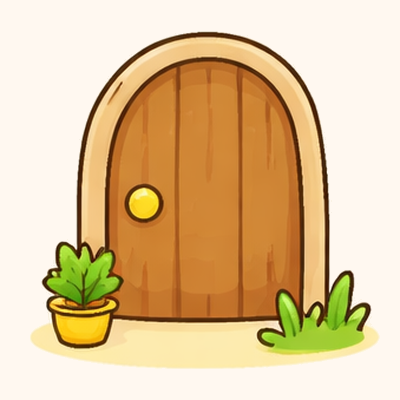
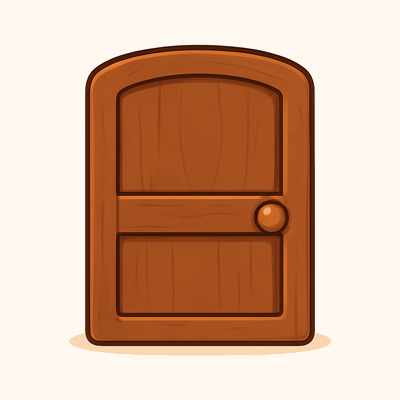
Merge pull request #24 from jvspl/claude/regen-deur

Pull request: Regenerate deur so it reads as a door (#16)
Closes #16.

The old `deur` didn't pass the across-the-table squint test (acceptance criterion #3): it was an arched doorway set in a wall, with a potted plant and a tuft of grass — scene props to point at instead of the door, breaking the one-subject rule. It was a March DALL-E incumbent with no recorded prompt, so there was nothing to tweak — it needed a fresh generation.

## What I did
- Generated a new `deur` via the SOURCES.md recipe: `gpt-image-1-mini`, quality medium, 1024², master prompt with subject *"a simple door"* (a single standalone wooden door with a round knob), refs `zebra`/`beer`/`appel`.
- Checked it against the acceptance criteria: single subject, no scene, recognizable silhouette, house-style match (thick dark-brown outline, warm cel shading, gloss highlight, cream background).
- Intaken at 400×400 with `lettercards photo … --pictogram` (background flood-fills cleanly to `#FFF8F0`).
- Backfilled its provenance row with the real prompt.

## Notes
- Content/image swap → normally straight to `main`; PR here since the working branch can't push to `main` directly.
- Rendered card and raw generation shown in the session. `check starter` stays valid; all 13 tests pass.

🤖 Generated with [Claude Code](https://claude.com/claude-code)

https://claude.ai/code/session_01AMjjUee7SVCZK7qj44ecru

---
_Generated by [Claude Code](https://claude.ai/code/session_01AMjjUee7SVCZK7qj44ecru)_

diff --git a/lettercards/starter/images/SOURCES.md b/lettercards/starter/images/SOURCES.md
@@ -107,7 +107,7 @@ Proven July 2026 (the 16-image batch below, ~$0.40 total):
 | ![banaan](banaan.png) | banaan | ChatGPT/DALL-E | 2026-03-19 | Create a 3x1 grid of cute, simple, child-friendly illustration style similar to Dutch children's books like Nijntje (Miffy) or Dikkie Dik. Soft rounded shapes, warm colors, gentle outlines, cream/beige background. The style should be appealing to toddlers (age 2). The 3 items to draw (left to right, top to bottom): banaan, beer, bal. Each item should be in its own cell with a cream/beige background. Keep items centered and recognizable for a toddler. |
 | ![beer](beer.png) | beer | ChatGPT/DALL-E | 2026-03-19 | Create a 3x1 grid of cute, simple, child-friendly illustration style similar to Dutch children's books like Nijntje (Miffy) or Dikkie Dik. Soft rounded shapes, warm colors, gentle outlines, cream/beige background. The style should be appealing to toddlers (age 2). The 3 items to draw (left to right, top to bottom): banaan, beer, bal. Each item should be in its own cell with a cream/beige background. Keep items centered and recognizable for a toddler. |
 | ![boom](boom.png) | boom | gpt-image-1-mini | 2026-07-05 | master prompt, subject: "a leafy green tree" (refs: zebra, beer, appel) |
-| ![deur](deur.png) | deur | ChatGPT/DALL-E | 2026-03-19 | _prompt lost — regenerate from the master prompt if this image ever needs fixing_ |
+| ![deur](deur.png) | deur | gpt-image-1-mini | 2026-07-06 | master prompt, subject: "a simple door" (refs: zebra, beer, appel) |
 | ![draak](draak.png) | draak | ChatGPT/DALL-E | 2026-03-19 | _prompt lost — regenerate from the master prompt if this image ever needs fixing_ |
 | ![druif](druif.png) | druif | ChatGPT/DALL-E | 2026-03-19 | _prompt lost — regenerate from the master prompt if this image ever needs fixing_ |
 | ![eend](eend.png) | eend | ChatGPT/DALL-E | 2026-03-19 | _prompt lost — regenerate from the master prompt if this image ever needs fixing_ |